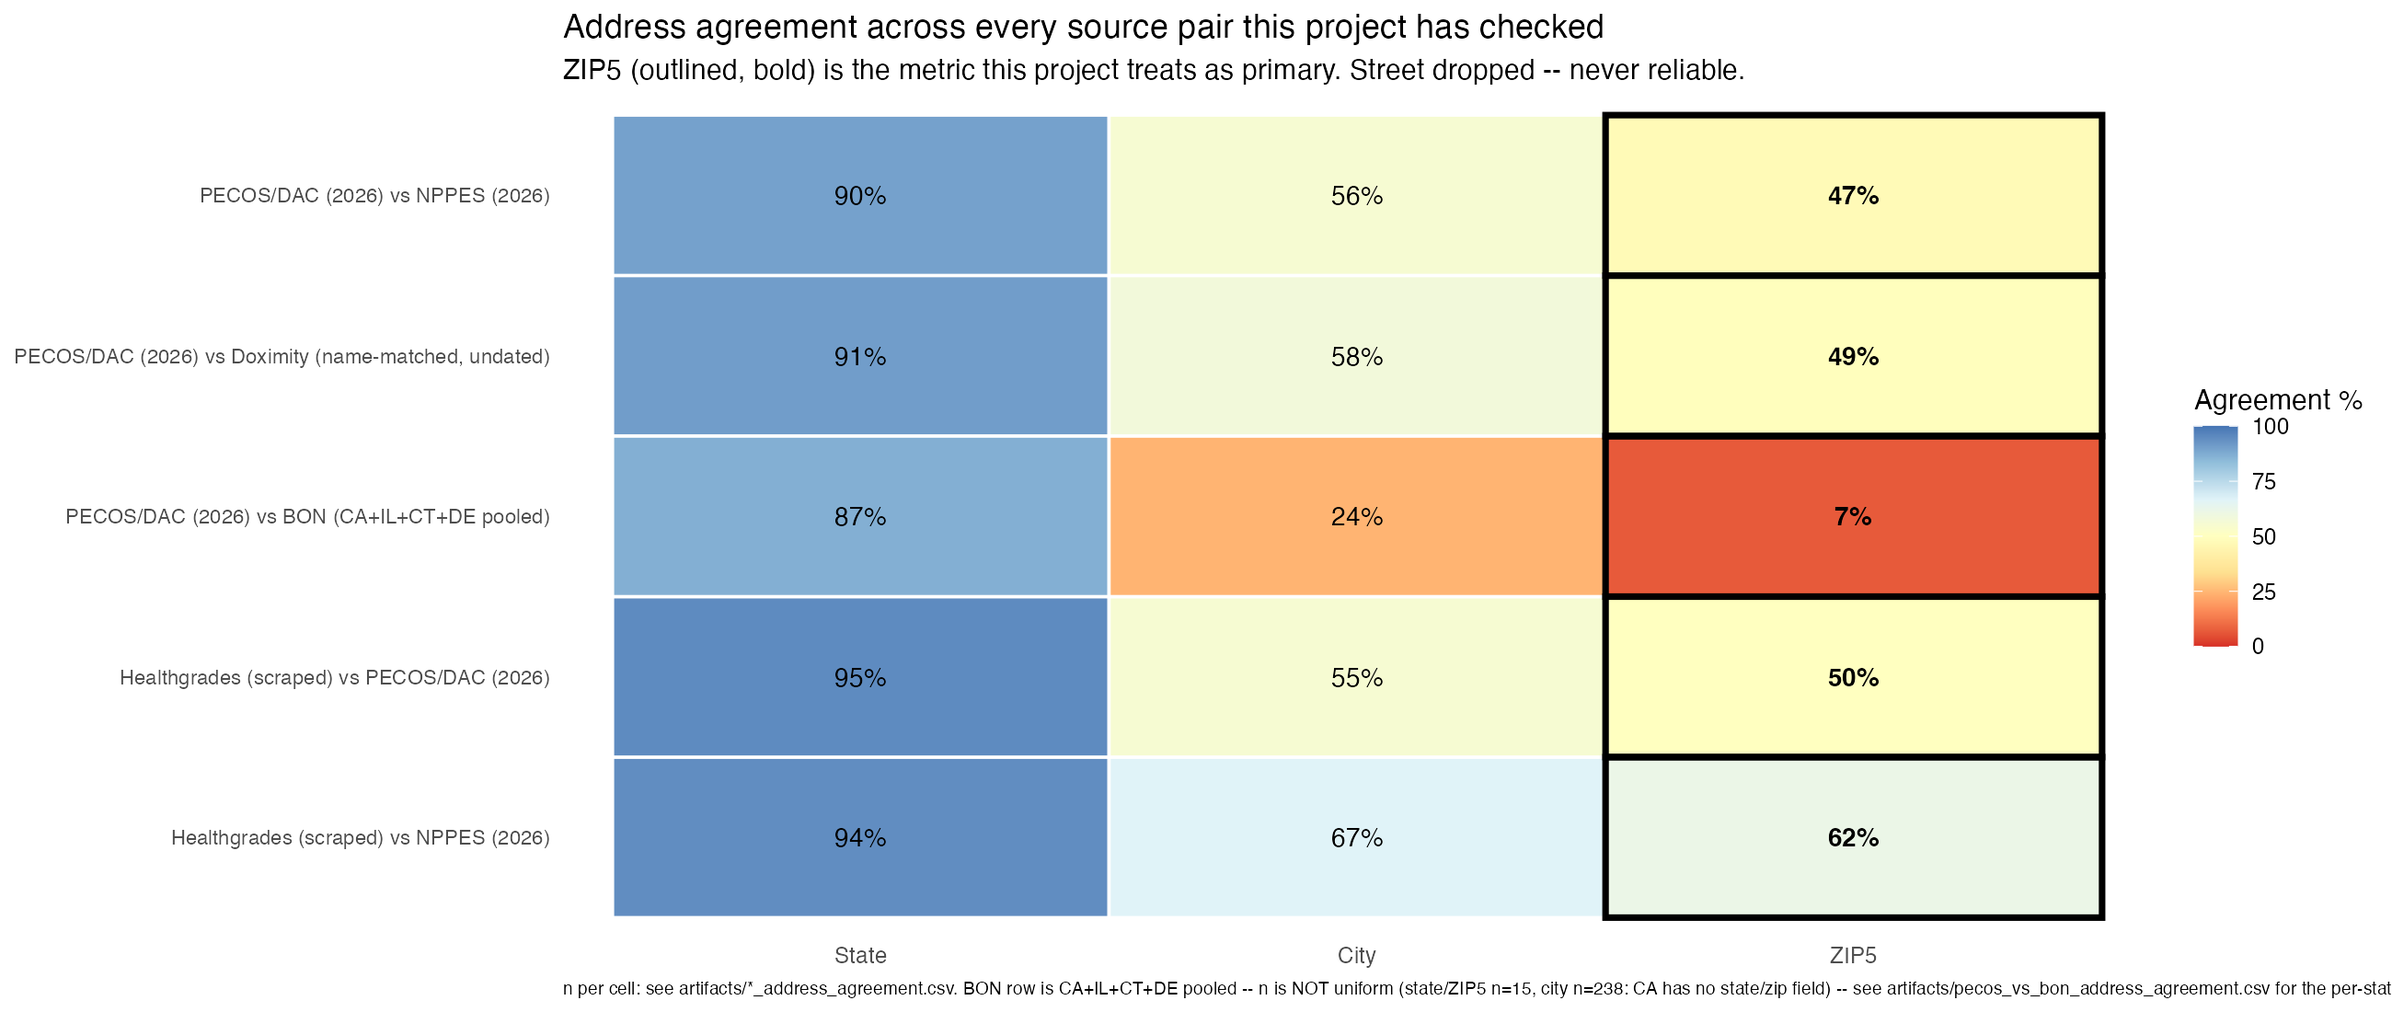
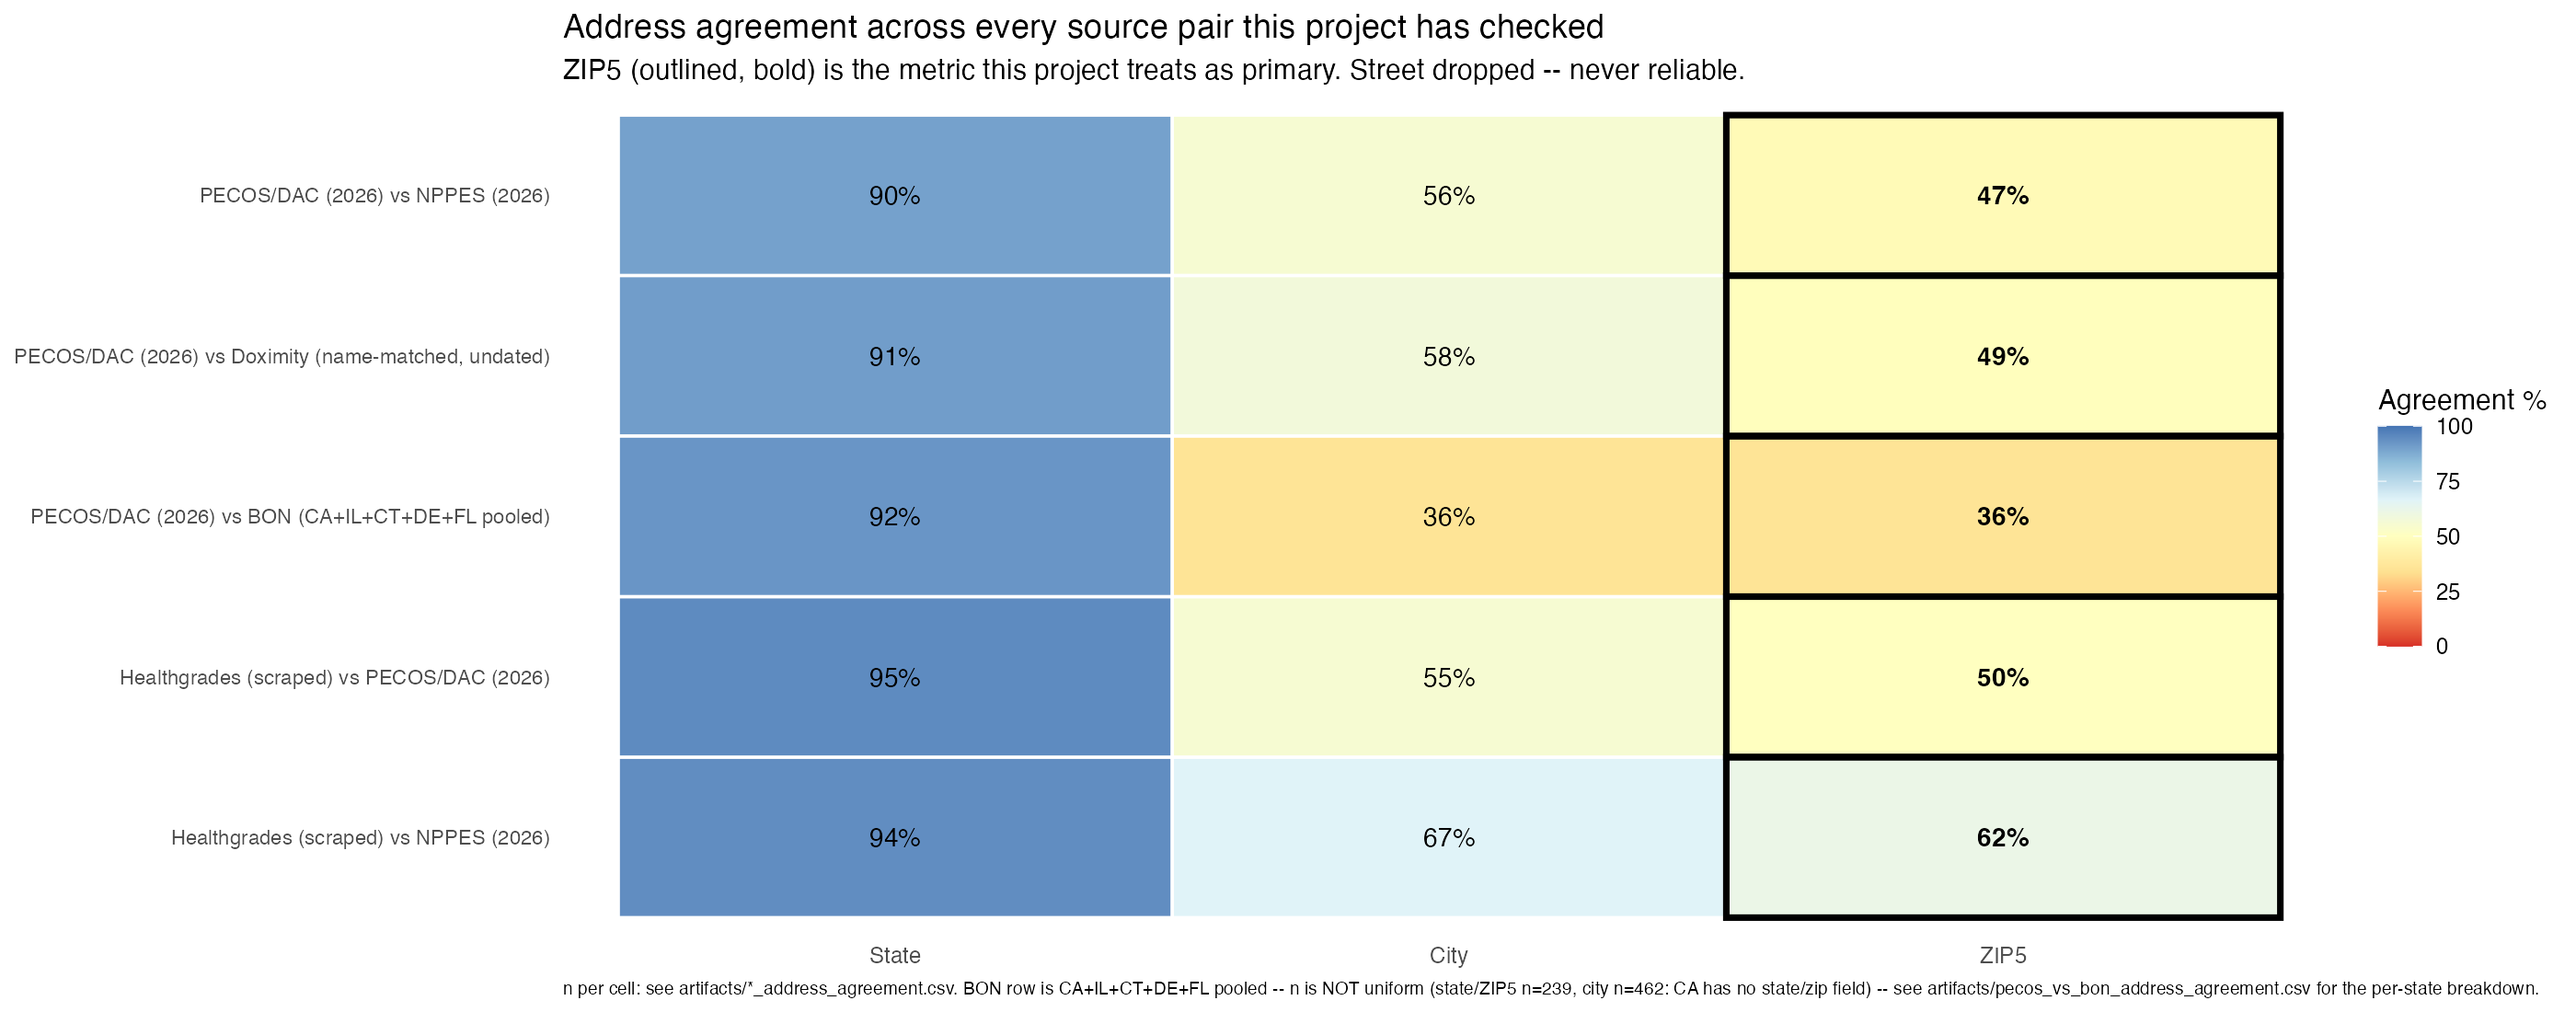
Wire Florida into the PECOS-vs-BON address comparison
Florida contributes 224 comparable rows (city/state/zip) -- more than
every other state-board source in this comparison combined -- and moves
pooled ZIP5 agreement from 6.7% (n=15, effectively Connecticut alone) to
35.6% (n=239), and pooled city agreement from 24.4% (n=238) to 35.5%
(n=462). Still below the 47-64% band the other four address comparisons
occupy, but no longer too small a sample to say anything with.

Also fixes a pre-existing bug this exposed: the pre-pool filter used
nzchar(npi) alone, which doesn't exclude NA (nzchar(NA) is TRUE) -- a
VERIFIED_LIVE_BON row with no linked NPI slipped through and collided
with another state's same-NA-key row once two states both had one.
Filters !is.na(npi) first now.

Claude-Session: https://claude.ai/code/session_01B86vSCLDD8XppKj5UFN1As

diff --git a/docs/TECHNICAL_APPENDIX_MULTI_SOURCE_ADDRESS_AGREEMENT.md b/docs/TECHNICAL_APPENDIX_MULTI_SOURCE_ADDRESS_AGREEMENT.md
@@ -3,8 +3,8 @@
 **Repository**: `midwifery`
 **Primary scripts**: [`compare_pecos_to_nppes_address.R`](../compare_pecos_to_nppes_address.R), [`compare_healthgrades_to_nppes_address.R`](../compare_healthgrades_to_nppes_address.R), [`compare_healthgrades_to_pecos_address.R`](../compare_healthgrades_to_pecos_address.R), [`compare_pecos_to_doximity_address.R`](../compare_pecos_to_doximity_address.R), [`compare_pecos_to_bon_address.R`](../compare_pecos_to_bon_address.R), [`make_address_agreement_heatmap.R`](../make_address_agreement_heatmap.R), [`build_pecos_bon_address_flow_pairs.R`](../build_pecos_bon_address_flow_pairs.R), [`make_pecos_bon_address_flow_map.R`](../make_pecos_bon_address_flow_map.R)
 **Shared logic**: [`R/lib/address_agreement_compare.R`](../R/lib/address_agreement_compare.R) (`shape_address()`, `compare_address_pair()`), mutation-tested by [`tests/test_address_agreement_compare_saboteur.R`](../tests/test_address_agreement_compare_saboteur.R) against [`tests/mutation_catalogue.R`](../tests/mutation_catalogue.R)
-**Investigation date**: 2026-10-23
-**Status**: five comparisons, all NPI-joined, all year-labeled on sight. Street was tried and dropped from every one of them (§2). One state-board input (Colorado) was removed outright, not caveated; a second (California) was added with no state or ZIP field at all (§4).
+**Investigation date**: 2026-10-23; updated 2026-10-26 (Florida added)
+**Status**: five comparisons, all NPI-joined, all year-labeled on sight. Street was tried and dropped from every one of them (§2). One state-board input (Colorado) was removed outright, not caveated; California was added with no state or ZIP field at all; Florida was added with full city/state/zip and is now the state-board comparison's largest single contributor at every level (§4).
 
 ---
 
@@ -21,9 +21,9 @@ they give the same answer, and at what level of geographic precision does
 that stop being true?**
 
 The honest answer, stated up front: **state-level agreement is high
-everywhere (86.7-95%). City and ZIP5 agreement collapse everywhere, and by
-how much depends on what kind of address is actually being compared, not
-on how "good" any one source is.**
+everywhere (89.8-95.3%). City and ZIP5 agreement drop well below that
+everywhere, and by how much depends on what kind of address is actually
+being compared, not on how "good" any one source is.**
 
 ## 2. Method, shared across all five comparisons
 
@@ -69,7 +69,7 @@ script's own header for exactly how.
 | PECOS/DAC (2026) vs Doximity (name-matched, undated) | 90.7% | 57.8% | 49.2% | 1,822 |
 | Healthgrades (scraped) vs PECOS/DAC (2026) | 95.3% | 55.4% | 50.0% | 148 |
 | Healthgrades (scraped) vs NPPES (2026) | 94-95% | 67-68% | 62-64% | 400-540\* |
-| PECOS/DAC (2026) vs BON (CA+IL+CT+DE pooled) | 86.7% (n=15) | 24.4% (n=238) | 6.7% (n=15) | — |
+| PECOS/DAC (2026) vs BON (CA+IL+CT+DE+FL pooled) | 92.5% (n=239) | 35.5% (n=462) | 35.6% (n=239) | — |
 
 \*Healthgrades' underlying scrape is still running in another session as
 of this writing; its n (and the percentages built on it) will keep
@@ -80,13 +80,15 @@ ZIP5 is the headline grain this project treats as primary (outlined/bold
 in the figure). It ranges from 47-64% among the four comparisons where
 both sides are asking the same underlying question ("where does this
 person practice") — genuinely substantial disagreement even there — and
-collapses to 6.7% for the one comparison that isn't (§4).
+sits at 35.6% for the state-board comparison (§4), now a real,
+well-powered number (n=239) rather than the n=15 curiosity it was before
+Florida was added, though still below the other four comparisons' band.
 
 ## 4. The state-board comparison: uneven coverage, one removed, n varies by level
 
-Seven states have a live Board-of-Nursing harvest script in this project
-(WA, CO, TX, CA, IL, CT, DE). **Three never had usable address data at
-all, one was removed on purpose, and the four that remain don't even
+Eight states have a live Board-of-Nursing harvest script in this project
+(WA, CO, TX, CA, IL, CT, DE, FL). **Three never had usable address data at
+all, one was removed on purpose, and the five that remain don't even
 report the same `n` across state/city/ZIP5** — each state's board
 publishes a different subset of fields, and `shape_address()` (§2) now
 reports NA, not a fabricated value, for whichever fields a given state
@@ -136,25 +138,60 @@ simply doesn't have.
   no documented mailing-vs-practice distinction. Of those: **DE
   contributes 0 rows** (no DE-practicing midwife is in the tracked cohort
   yet — an honest zero, not an error) and **IL contributes 1** (not a
-  usable percentage). **CT contributes 14**, and together with CA carries
-  the entire comparison: CT alone at state and ZIP5 (CA has neither
-  field), CA dominating city (223 of 238 pooled city-comparable records).
+  usable percentage). **CT contributes 14** — a meaningful share before
+  Florida was added, now a small piece of a much larger picture.
+- **FL was added 2026-10-26, and is this comparison's largest single
+  contributor at every level.** Florida has no CNM-specific profession
+  category at all — nurse-midwives, nurse practitioners, CRNAs and
+  clinical nurse specialists all share one "Advanced Practice Registered
+  Nurse" license type — so
+  `harvest_live_florida_bon_from_tracked_roster.py` accepts a name match
+  only when the license's own Qualifications field lists "Certified Nurse
+  Midwife": 813 of 1,035 FL-state cohort members verified this way, 81
+  APRN name matches correctly excluded as NOT CNM-qualified (a match
+  under the right name that isn't actually a midwife), 0 ambiguous. Of
+  those 813, 224 also have a PECOS/DAC NPI to compare against — by itself
+  more comparable rows than every other state-board source in this
+  project combined. The harvester's first committed version only captured
+  the detail page's street line; the real city/state/zip line sits two
+  `<dt>/<dd>` pairs later in the HTML and was silently dropped. Fixed and
+  the full cohort re-harvested before this update — confirmed live
+  against several real records, including the "no address on file" case
+  (a disclaimer paragraph precedes the real address block there, which
+  the fix had to parse around rather than mistake for the address).
 
-Removing CO did not rescue the ZIP5 number: CT alone, on its own, was
-already 7.1% before CO was ever in the mix (6.7% once pooled with IL/DE's
-negligible contribution). Adding CA did not move it either — CA has no
-ZIP field to contribute. What CA *did* do is turn the city-level number
-from a 15-record curiosity into a 238-record one, and the percentage
-barely moved (20.0% → 24.4%) — evidence the small-sample city number
-wasn't a fluke, not a different finding.
+Adding Florida also exposed a separate, pre-existing bug: the filter that
+excludes non-matched rows before pooling used `nzchar(npi)` alone, which
+does not exclude `NA` — the same `nzchar(NA) == TRUE` behavior already
+documented and guarded against inside `compare_address_pair()` itself,
+just not here. A VERIFIED_LIVE_BON row whose cohort member has no linked
+NPI reads as a blank CSV cell, which becomes `NA` after `read_csv()`, and
+`nzchar(NA)` doesn't filter it out. With only CA/IL/CT/DE pooled this
+never collided; adding FL's own NA-npi row made two such rows land on the
+same `NA` "key" with different cities, and `assert_unique_keys()`
+correctly refused to silently resolve the conflict. Fixed by filtering
+`!is.na(npi)` before `nzchar(npi)`, not after.
+
+Removing CO did not rescue the ZIP5 number on its own: CT alone was still
+only 7.1% before Florida entered the mix. Florida is what actually moved
+it — pooled ZIP5 agreement went from 6.7% (n=15, effectively CT alone) to
+35.6% (n=239, FL carrying 224 of those rows), and pooled city agreement
+from 24.4% (n=238) to 35.5% (n=462). This is still below the 47-64% band
+the four practice-vs-practice comparisons in §3 occupy, but it's no
+longer a sample too small to say anything with — it's a real number built
+on the largest BON-side comparable sample in this project.
 
 ![Where PECOS/DAC and state Boards of Nursing disagree on practice location](figures/pecos_vs_bon_address_flows_2026.png)
 
-This map covers Connecticut only — CA has no ZIP field, and the ZIP5-
+This map still covers Connecticut only — it predates Florida's addition
+and has not yet been extended to it. CA has no ZIP field, and the ZIP5-
 centroid geocoding method this map uses (§6) has no equivalent for a
 city-only source; mapping CA's mismatches would need a city-centroid
-lookup this project doesn't currently have. 11 of CT's 14 comparable
-records disagree at city level or coarser — a dense local cluster around
+lookup this project doesn't currently have. Florida has no such
+limitation (it carries a real ZIP5) and, at n=224, would be by far the
+largest flow this map could show — extending it is a natural next step,
+not done as part of this update. 11 of CT's 14 comparable records
+disagree at city level or coarser — a dense local cluster around
 Hartford/New Haven plus one out-of-state flow (Danbury CT → Tamarac FL).
 
 ## 5. What this does and does not establish
@@ -168,7 +205,7 @@ Hartford/New Haven plus one out-of-state flow (Danbury CT → Tamarac FL).
   Healthgrades is a scraped directory listing; state boards are sometimes
   a mailing address, sometimes a practice address, and don't always say
   which.
-- **State-level agreement is consistently high (86.7-95%) across every
+- **State-level agreement is consistently high (89.8-95.3%) across every
   comparison.** Nobody disagrees about which *state* a midwife practices
   in. The disagreement is entirely a finer-grain phenomenon.
 - **ZIP5 agreement among the four practice-vs-practice comparisons sits in
@@ -177,16 +214,20 @@ Hartford/New Haven plus one out-of-state flow (Danbury CT → Tamarac FL).
   the best of the four at 63.5%; none of the four exceeds two-thirds
   agreement.
 - **The state-board comparison measures something structurally different**
-  from the other four — coverage (2 of 7 states have no usable address
+  from the other four — coverage (2 of 8 states have no usable address
   field at all), address type (Colorado's was a mailing address; removed
   rather than caveated), field availability (California has city but no
-  state or ZIP), and sample size (ZIP5 still rests on Connecticut alone,
-  n=14) all limit what it can say. City-level agreement is better-powered
-  now (n=238, CA+CT), and the two states' independent numbers agree with
-  each other (24.7% CA, 21.4% CT) — some real signal, not just noise, even
-  though it still can't speak to ZIP5. It should not be read as "state
-  board data disagrees with PECOS" in general — only as what the specific
-  states with usable data actually show.
+  state or ZIP), and scope (Florida's CNM identification depends on a
+  Qualifications-field screen this project had to build, not a clean
+  profession-code filter) all limit what it can say. ZIP5 is now
+  well-powered (n=239, driven mostly by Florida's 224) rather than resting
+  on Connecticut alone, and city-level agreement (n=462) is powered by
+  three independent sources agreeing within a similar range (24.7% CA,
+  21.4% CT, 47.3% FL) — real signal, not noise, though FL's own number
+  sits noticeably higher than CA's and CT's, worth keeping in mind rather
+  than averaging away. It should not be read as "state board data
+  disagrees with PECOS" in general — only as what the specific states with
+  usable data actually show.
 - **It does not identify which source is "right."** Nothing here
   establishes a ground truth to measure the others against; it measures
   mutual agreement only.
@@ -204,7 +245,7 @@ Rscript compare_healthgrades_to_pecos_address.R
 # PECOS/DAC vs Doximity (two-hop join: certification_number -> npi)
 Rscript compare_pecos_to_doximity_address.R
 
-# PECOS/DAC vs state Boards of Nursing (CA/IL/CT/DE; per-state + pooled rows)
+# PECOS/DAC vs state Boards of Nursing (CA/IL/CT/DE/FL; per-state + pooled rows)
 Rscript compare_pecos_to_bon_address.R
 
 # Combined heatmap (all five artifacts above)
